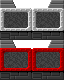
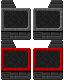
Adjust equip menu #363

diff --git a/src/weapon_menu.c b/src/weapon_menu.c
@@ -99,6 +99,18 @@ static void DrawEquipSlot(
 	const char *label, const struct vec2i pos, const FontAlign align)
 {
 	const bool selected = data->EquipSlot == slot;
+	color_t color = data->equipping ? colorGray : colorWhite;
+	if (selected)
+	{
+		if (data->equipping)
+		{
+			color = colorYellow;
+		}
+		else
+		{
+			color = colorRed;
+		}
+	}
 	const PlayerData *pData = PlayerDataGetByUID(data->PlayerUID);
 
 	int y = pos.y;
@@ -114,7 +126,7 @@ static void DrawEquipSlot(
 
 	const FontOpts fopts = {
 		align, ALIGN_START, svec2i(WEAPON_MENU_WIDTH / 2, FontH()),
-		svec2i(1, 0), selected ? colorRed : colorGray};
+		svec2i(2, 1), color};
 	FontStrOpt(label, pos, fopts);
 
 	const Pic *gunIcon = pData->guns[slot]
@@ -135,7 +147,7 @@ static void DrawEquipSlot(
 	y += EQUIP_MENU_SLOT_HEIGHT - FontH();
 	const char *gunName =
 		pData->guns[slot] ? pData->guns[slot]->name : NO_GUN_LABEL;
-	FontStrMask(gunName, svec2i(pos.x, y), selected ? colorRed : colorWhite);
+	FontStrMask(gunName, svec2i(pos.x, y), color);
 }
 static void DrawEquipMenu(
 	const menu_t *menu, GraphicsDevice *g, const struct vec2i pos,
@@ -170,10 +182,11 @@ static void DrawEquipMenu(
 		Rect2iNew(
 			svec2i(
 				CENTER_X(pos, size, endSize.x),
-				pos.y + EQUIP_MENU_SLOT_HEIGHT * 2),
+				pos.y + EQUIP_MENU_SLOT_HEIGHT * 2 + FontH()),
 			FontStrSize(END_MENU_LABEL)),
 		END_MENU_LABEL, d->EquipSlot == MAX_WEAPONS,
-		PlayerGetNumWeapons(pData) == 0, colorWhite);
+		PlayerGetNumWeapons(pData) == 0,
+		d->equipping ? colorGray : colorWhite);
 }
 static int HandleInputEquipMenu(int cmd, void *data)
 {
@@ -352,7 +365,7 @@ void WeaponMenuCreate(
 	if (pData->inputDevice == INPUT_DEVICE_AI)
 	{
 		menu->data.EquipSlot = MAX_WEAPONS;
-		menu->equipping = false;
+		menu->data.equipping = false;
 		menu->msEquip.current = NULL;
 		AICoopSelectWeapons(pData, player, weapons);
 	}
@@ -444,7 +457,7 @@ void WeaponMenuTerminate(WeaponMenu *menu)
 void WeaponMenuUpdate(WeaponMenu *menu, const int cmd)
 {
 	PlayerData *p = PlayerDataGetByUID(menu->data.PlayerUID);
-	if (menu->equipping)
+	if (menu->data.equipping)
 	{
 		MenuProcessCmd(&menu->ms, cmd);
 		menu_t *equipMenu = menu->data.EquipSlot < MAX_GUNS
@@ -471,7 +484,7 @@ void WeaponMenuUpdate(WeaponMenu *menu, const int cmd)
 			// fallthrough
 		case WEAPON_MENU_CANCEL:
 			// Switch back to equip menu
-			menu->equipping = false;
+			menu->data.equipping = false;
 			break;
 		default:
 			CASSERT(false, "unhandled case");
@@ -489,14 +502,14 @@ void WeaponMenuUpdate(WeaponMenu *menu, const int cmd)
 		if (MenuIsExit(&menu->msEquip) && menu->data.EquipSlot < MAX_WEAPONS)
 		{
 			// Open weapon selection menu
-			menu->equipping = true;
+			menu->data.equipping = true;
 			menu->msEquip.current = menu->msEquip.root;
 			menu->data.SelectResult = WEAPON_MENU_NONE;
 		}
 	}
 
 	// Display the gun/grenade menu based on which submenu is hovered
-	if (!menu->equipping)
+	if (!menu->data.equipping)
 	{
 		if (menu->data.EquipSlot < MAX_WEAPONS)
 		{
@@ -511,21 +524,21 @@ void WeaponMenuUpdate(WeaponMenu *menu, const int cmd)
 	}
 
 	// Disable the equip/weapon menus based on equipping state
-	MenuSetDisabled(menu->msEquip.root, menu->equipping);
+	MenuSetDisabled(menu->msEquip.root, menu->data.equipping);
 	if (menu->ms.current)
 	{
-		MenuSetDisabled(menu->ms.current, !menu->equipping);
+		MenuSetDisabled(menu->ms.current, !menu->data.equipping);
 	}
 }
 
 bool WeaponMenuIsDone(const WeaponMenu *menu)
 {
-	return menu->msEquip.current == NULL && !menu->equipping &&
+	return menu->msEquip.current == NULL && !menu->data.equipping &&
 		   menu->data.EquipSlot == MAX_WEAPONS;
 }
 
 void WeaponMenuDraw(const WeaponMenu *menu)
 {
-	MenuDisplay(&menu->ms);
 	MenuDisplay(&menu->msEquip);
+	MenuDisplay(&menu->ms);
 }

diff --git a/src/weapon_menu.h b/src/weapon_menu.h
@@ -42,6 +42,7 @@ typedef struct
 	MenuDisplayPlayerData display;
 	int PlayerUID;
 	int EquipSlot;
+	bool equipping;
 	bool EquipEnabled[MAX_WEAPONS];
 	const WeaponClass *SelectedGun;
 	WeaponMenuResult SelectResult;
@@ -52,7 +53,6 @@ typedef struct
 	MenuSystem msEquip;
 	menu_t *gunMenu;
 	menu_t *grenadeMenu;
-	bool equipping;
 	WeaponMenuData data;
 } WeaponMenu;
 
